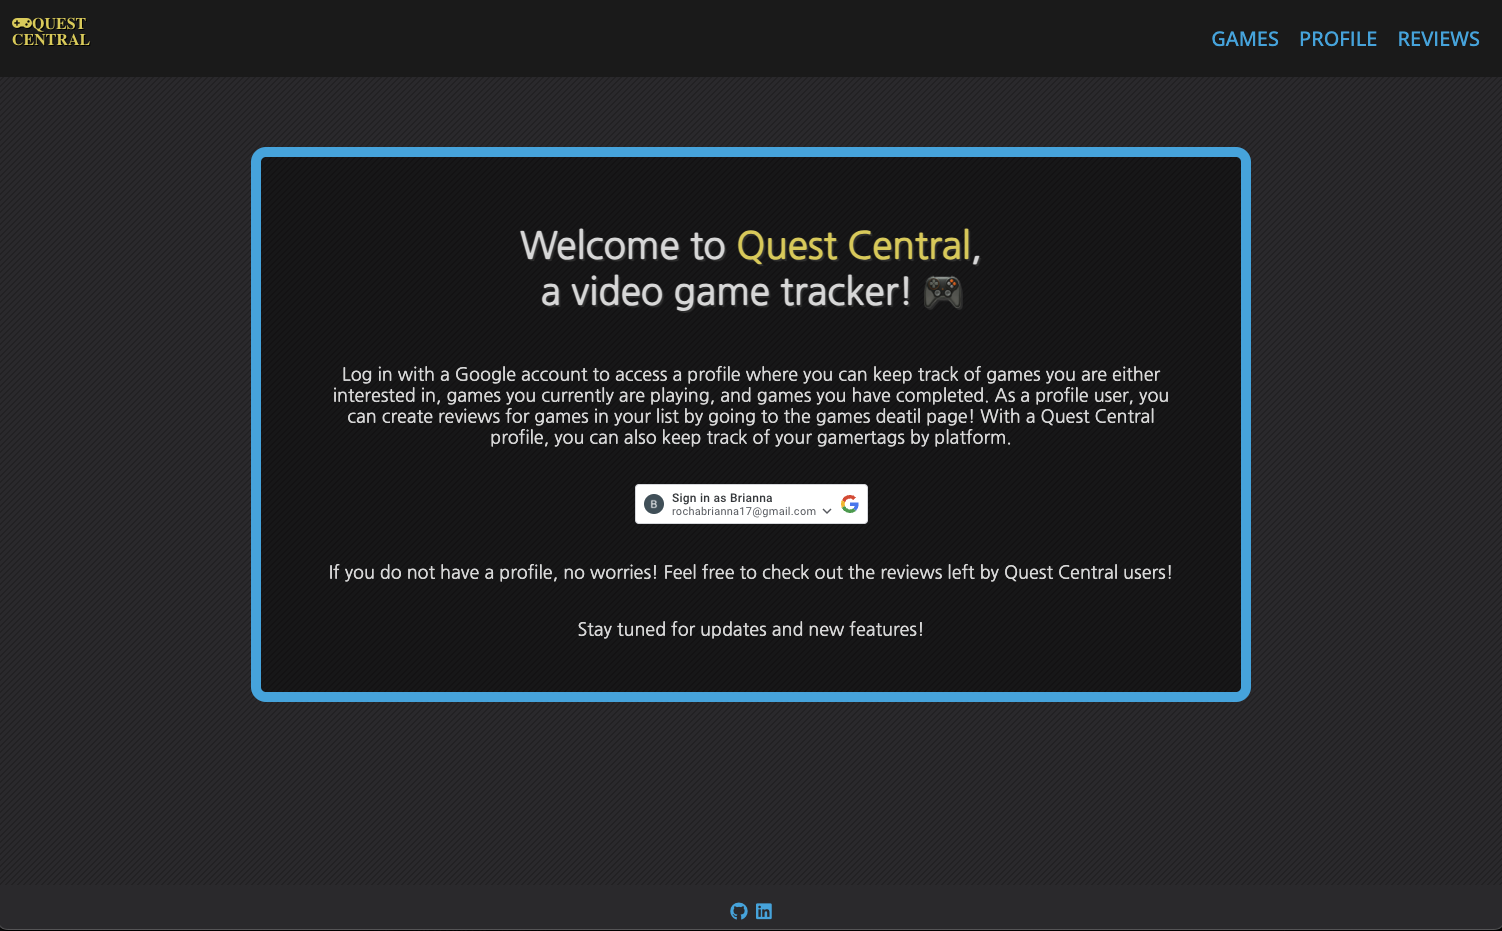
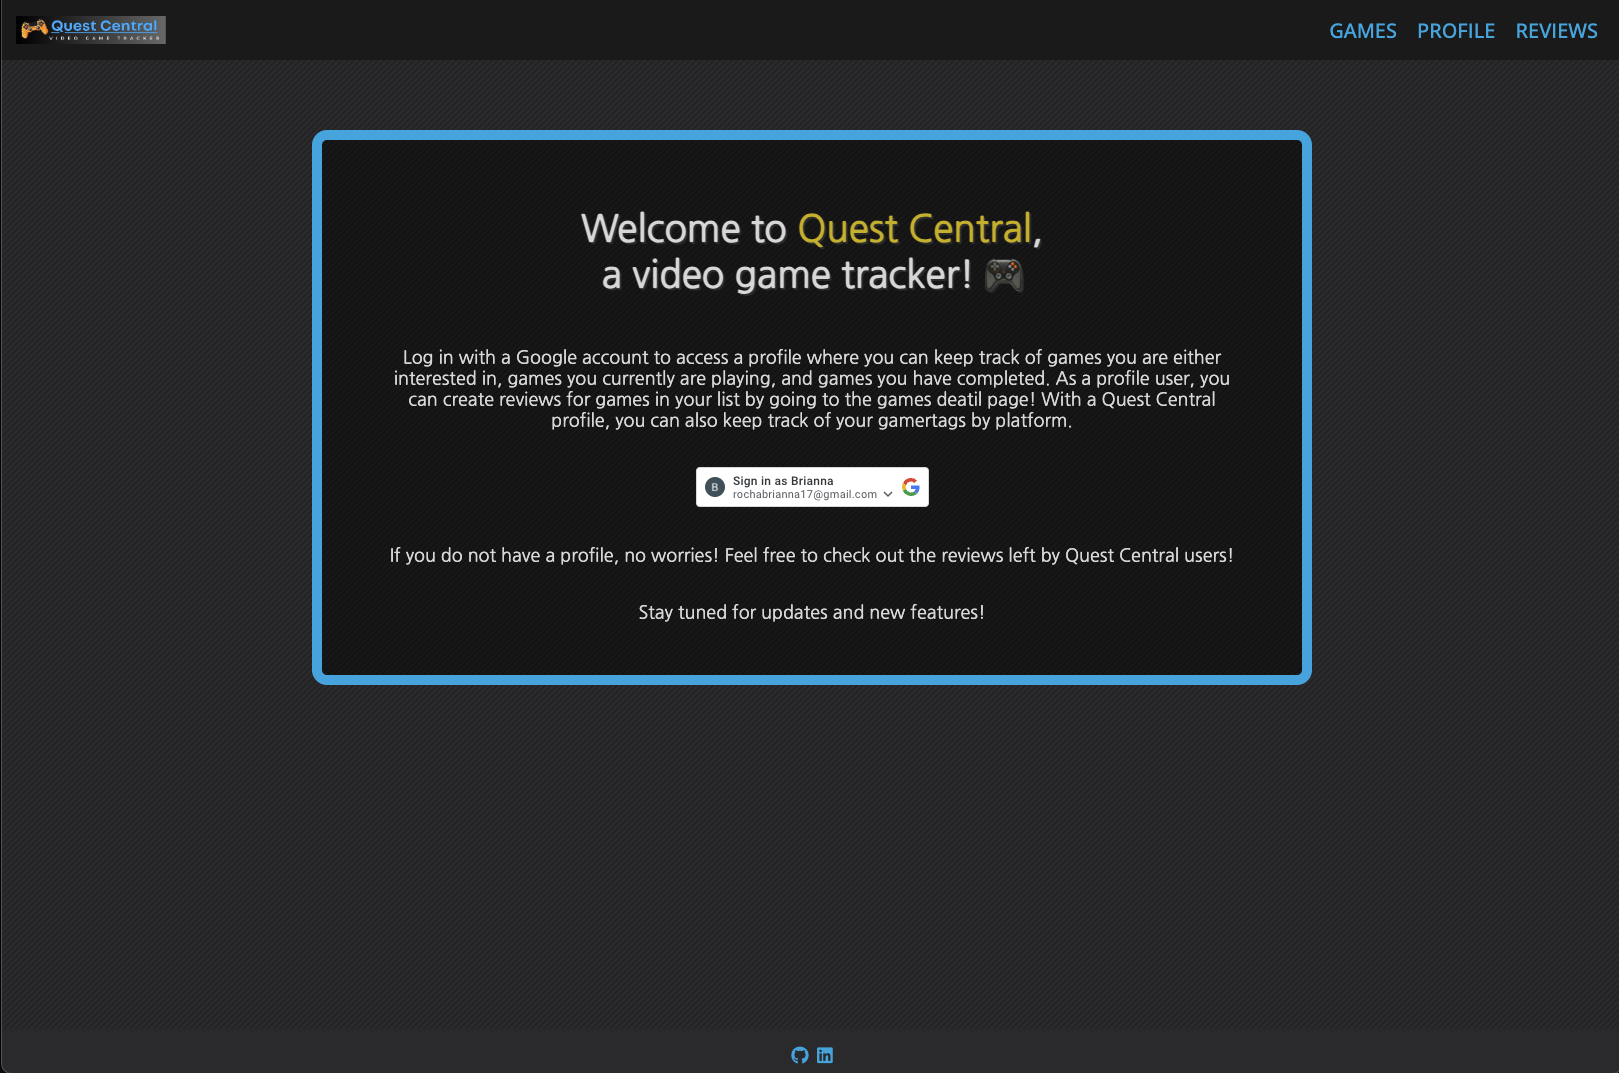
fix styling

diff --git a/public/stylesheets/style.css b/public/stylesheets/style.css
@@ -30,19 +30,17 @@ nav {
   align-items: right;
   justify-content: right;
   padding: 15px;
-  min-height: 45px;
+  max-height: 60px;
   font-family: 'Open Sans', sans-serif;
 }
 
-nav > i {
-  width: 20px;
+#nav-logo {
   object-fit: contain;
   margin-right: auto;
   align-items: center;
   justify-content: center;
-  color: #e0d057;
-  font-weight: bold;
-  text-shadow: 1px 1px 0px rgb(0, 0, 0);
+  max-height: 300px;
+  max-width: 150px;
 }
 
 nav > a {
@@ -161,7 +159,7 @@ button:hover {
 }
 
 .yellow-highlight {
-  color: #dfcf57;
+  color: #ceb70e;
 }
 
 table {

diff --git a/README.md b/README.md
@@ -1,9 +1,8 @@
-# <p align="center">**Quest Central**</p>
+# <p align="center">**![Alt text](/public/assets/images/logo.png)**</p>
 
 ![Alt text](/public/assets/images/home.png)
 
 Hey, Gamer! 👾 Welcome to Quest Central, a video game tracker, where one can sign in using a Google authorized account to create a Quest Central profile. With this Quest Central profile, a logged-in user can create a game list of games they are either interested in playing, currently playing, or have already completed. Once you have a game added to your list, you can then edit, delete, add a review, or even add notes to the game. A logged-in user can also keep track of their gamertags on their profile page! If you do not want to make a profile, no worries! You can still view the reviews Quest Central profile users have left! Enjoy, and stay tuned for future updates and features! 
-
 
 # [Visit Quest Central here!](https://quest-central.fly.dev/) 🎮
 
